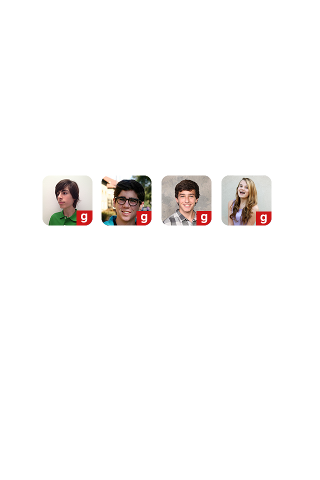
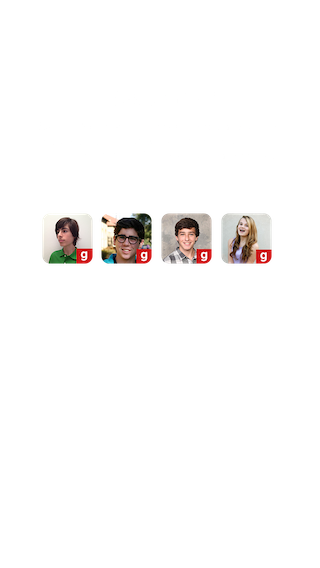
Update tour 3 page to say 9 clues.

diff --git a/YouTellMobile/YouTellMobile/Controllers/YTTourViewController.m b/YouTellMobile/YouTellMobile/Controllers/YTTourViewController.m
@@ -69,11 +69,12 @@
         CGRect frame;
         frame.size.width = 250;
         frame.origin.x = (imageView.frame.size.width - frame.size.width) / 2;
-        frame.origin.y = imageView.frame.size.height - 140;
-        //TODO perfect images?
-        if (!brazilLang) {
-            frame.origin.y = frame.origin.y - 40;
+        frame.origin.y = 260;//imageView.frame.size.height - 220;
+        if([YTHelper isPhone5]) {
+            frame.origin.y = frame.origin.y + 40;
         }
+        //TODO perfect images?
+        
 
         
         if (isfb) {

diff --git a/YouTellMobile/YouTellMobile/Main/YTConfig.h b/YouTellMobile/YouTellMobile/Main/YTConfig.h
@@ -19,7 +19,7 @@
 #define CONFIG_MAX_CLUES_PER_GAB 5
 
 //app debugging
-#define CONFIG_DEBUG_TOUR 0
+#define CONFIG_DEBUG_TOUR 1
 #define CONFIG_DEBUG_FLURRY 0
 #define CONFIG_CRASH_BUTTON 0
 #define CONFIG_CLUES_BUTTON 0
